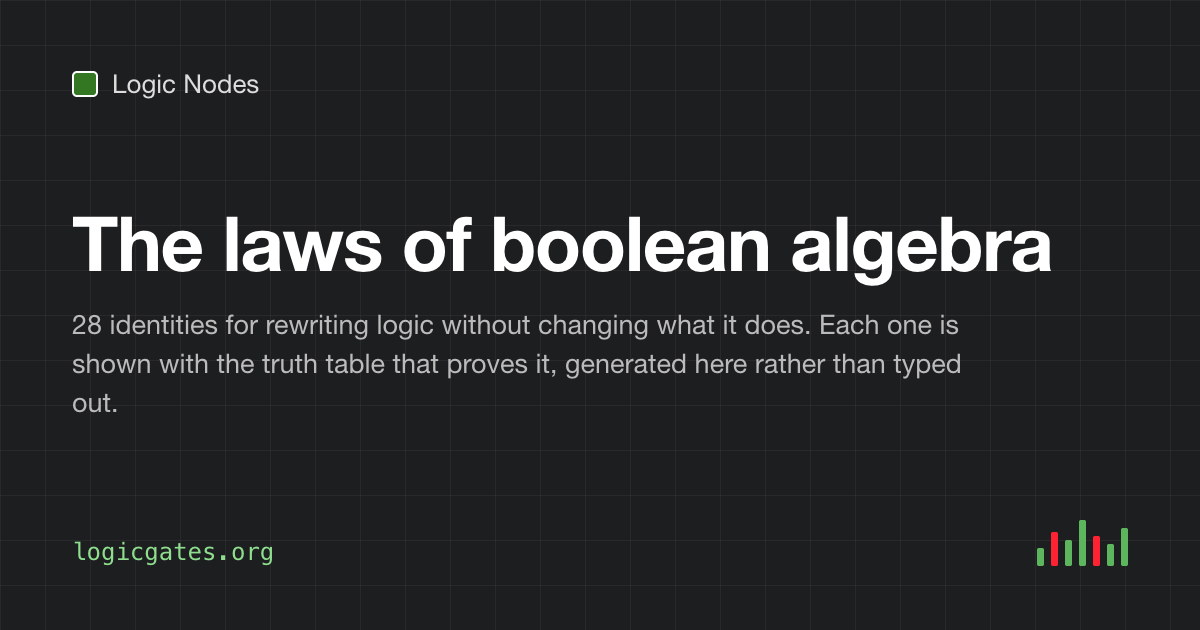
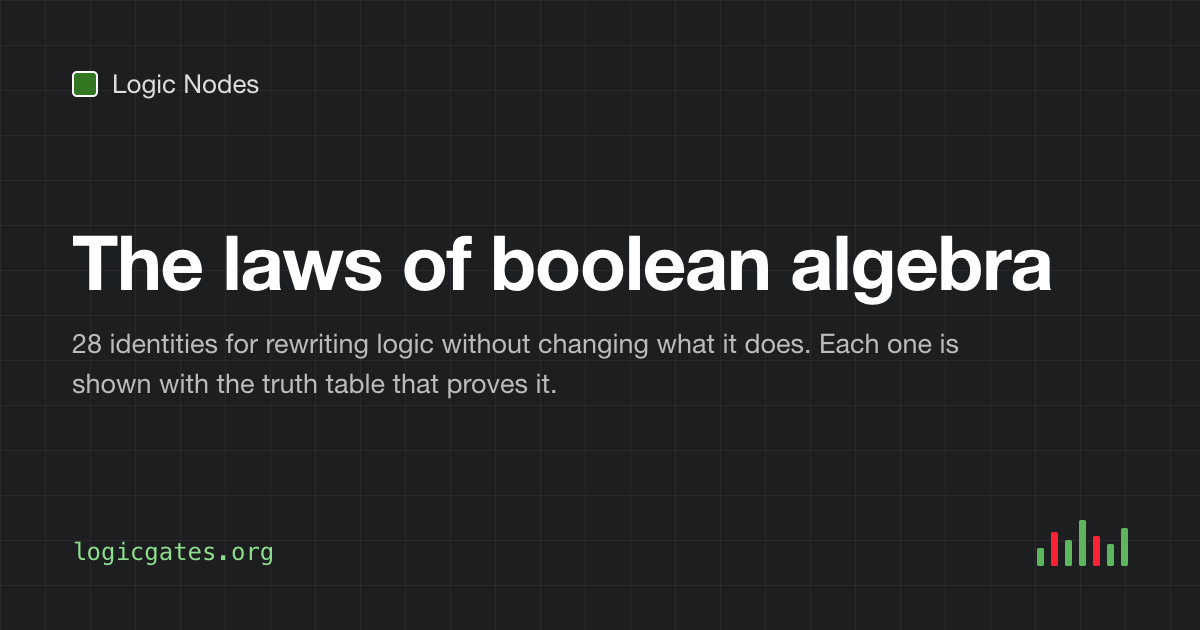
copy: stop the pages talking about how they were built
Several passages advertised the implementation rather than telling the
reader anything: a property-based test suite that fails the build, tables
"generated by the same engine", waveforms that "cannot disagree" with their
tables, content that "can't quietly go stale". That is reassurance aimed at
whoever wrote it, and it reads as protesting too much.

Fifteen passages cut or rewritten to describe what the reader gets. Claims
that describe the product are kept: the editor really does generate a truth
table live, the equivalence checker really does compare every row, and the
worksheet key really is gated by a code tied to the sheet.

Claude-Session: https://claude.ai/code/session_01EqRyye9pEa7xRu1xhYb2tK

Changed region(s): [[0.0617, 0.3317, 0.8942, 0.6635]]

diff --git a/src/routes/practice/+page.svelte b/src/routes/practice/+page.svelte
@@ -81,7 +81,7 @@
 	const faqs = [
 		{
 			q: 'Where do the questions come from?',
-			a: 'They are generated, not drawn from a fixed list, so you can keep going indefinitely. Each one is built and marked by the same expression engine that powers the truth table generator and the Karnaugh map solver, which is also how the distractors are checked to be genuinely wrong.'
+			a: 'They are built fresh rather than drawn from a fixed list, so you can keep going indefinitely. The wrong answers are real alternatives rather than filler, so you cannot get there by eliminating the obviously silly ones.'
 		},
 		{
 			q: 'What is covered?',
@@ -273,10 +273,7 @@
 
 	<section>
 		<h2>What comes up</h2>
-		<p class="section-intro">
-			Five kinds of question, mixed at random. Every one is generated and then marked by the same engine behind the rest
-			of the site, so the answers are worked out rather than looked up.
-		</p>
+		<p class="section-intro">Five kinds of question, mixed at random.</p>
 		<div class="table-wrap">
 			<table class="data-table">
 				<thead>

diff --git a/src/routes/+page.svelte b/src/routes/+page.svelte
@@ -33,12 +33,12 @@
 		{
 			href: '/boolean-algebra-laws',
 			name: 'Boolean algebra laws',
-			blurb: 'Every identity, each proved with a generated truth table.'
+			blurb: 'Every identity, shown with the truth table that proves it.'
 		},
 		{
 			href: '/practice',
 			name: 'Practice and worksheets',
-			blurb: 'Endless generated questions, and printable sheets with a key.'
+			blurb: 'Questions that never run out, and printable sheets with a key.'
 		}
 	];
 
@@ -658,8 +658,8 @@
 	<section>
 		<h2>And the reference to go with them</h2>
 		<p class="section-intro">
-			Every table, identity and waveform on these pages is generated by the same engine that powers the tools, and
-			checked against it, so none of it can quietly go stale.
+			The background for the tools: how each gate behaves, how flip-flops hold a value, and how the standard building
+			blocks are put together.
 		</p>
 		<div class="link-grid">
 			{#each guides as guide}

diff --git a/src/routes/shift-registers/+page.svelte b/src/routes/shift-registers/+page.svelte
@@ -74,7 +74,7 @@
 	const page = {
 		title: 'Shift Registers: SIPO, PISO, Ring and Johnson Counters',
 		description:
-			'How shift registers work, the four serial and parallel arrangements, and the ring and Johnson counters built from them, with generated timing diagrams.',
+			'How shift registers work, the four serial and parallel arrangements, and the ring and Johnson counters built from them, with timing diagrams.',
 		url: `${SITE}/shift-registers`,
 		image: `${SITE}/og/shift-registers.png`,
 		imageAlt: 'Logic Nodes: shift registers'

diff --git a/src/routes/counters/+page.svelte b/src/routes/counters/+page.svelte
@@ -67,7 +67,7 @@
 	const page = {
 		title: 'Counters in Digital Logic: Ripple, Synchronous and Decade',
 		description:
-			'How binary counters work, from toggling flip-flops to ripple, synchronous, decade and up/down designs, with generated count tables and timing diagrams.',
+			'How binary counters work, from toggling flip-flops to ripple, synchronous, decade and up/down designs, with count tables and timing diagrams.',
 		url: `${SITE}/counters`,
 		image: `${SITE}/og/counters.png`,
 		imageAlt: 'Logic Nodes: counters'

diff --git a/src/routes/tools/+page.svelte b/src/routes/tools/+page.svelte
@@ -168,10 +168,6 @@
 			<span class="mono">a∧b</span>, <span class="mono">ab</span> — and the simplification is Quine-McCluskey, the same algorithm
 			whether you see it as algebra or as groups on a map.
 		</p>
-		<p class="reducer">
-			It is covered by a property-based test suite: thousands of generated expressions are simplified and then
-			re-checked against their original truth table, so a wrong answer fails the build.
-		</p>
 		<p>
 			<a class="cta" href="/simulator">Open the simulator</a>
 		</p>

diff --git a/src/routes/logic-gates/[gate]/+page.svelte b/src/routes/logic-gates/[gate]/+page.svelte
@@ -139,8 +139,8 @@
 	<section>
 		<h2>Building it from other gates</h2>
 		<p class="section-intro">
-			Each of these is equivalent to the {gate.name} gate, verified against the full truth table. Paste any of them into
-			the simulator with <kbd>ctrl</kbd>+<kbd>E</kbd> to see the circuit.
+			Each of these is equivalent to the {gate.name} gate. Paste any of them into the simulator with
+			<kbd>ctrl</kbd>+<kbd>E</kbd> to see the circuit.
 		</p>
 		<table class="data-table equivalences">
 			<thead>

diff --git a/src/routes/worksheet/+page.svelte b/src/routes/worksheet/+page.svelte
@@ -288,8 +288,8 @@
 	<section class="no-print">
 		<h2>How it works without an account</h2>
 		<p class="section-intro">
-			There is no database behind this, and no sign-up. The questions are built from the sheet number by the same engine
-			that marks them, so the number is the worksheet.
+			There is no database behind this, and no sign-up. The questions come from the sheet number in the address, so the
+			number is the worksheet.
 		</p>
 		<ul class="how">
 			<li>

diff --git a/src/routes/flip-flops/[type]/+page.svelte b/src/routes/flip-flops/[type]/+page.svelte
@@ -252,8 +252,7 @@
 			</div>
 			<div class="timing-scroll print-only" aria-hidden="true">{@html timingPrintSvg}</div>
 			<figcaption>
-				Q is computed from <span class="mono">{ff.equationText}</span>, the same equation as the table above, so the
-				waveform and the table cannot disagree.
+				Q follows <span class="mono">{ff.equationText}</span>, the same equation as the table above.
 			</figcaption>
 		</figure>
 	</section>

diff --git a/src/routes/boolean-algebra-laws/+page.svelte b/src/routes/boolean-algebra-laws/+page.svelte
@@ -124,7 +124,7 @@
 		<h1>The laws of boolean algebra</h1>
 		<p class="lede">
 			{laws.length} identities for rewriting logic without changing what it does. Each one is shown with the truth table
-			that proves it, generated here rather than typed out.
+			that proves it.
 		</p>
 		<p class="reducer">
 			Want to check your own? The <a href="/boolean-algebra-calculator">calculator</a> compares any two expressions row by

diff --git a/src/routes/truth-table-generator/+page.svelte b/src/routes/truth-table-generator/+page.svelte
@@ -290,8 +290,7 @@
 	<section>
 		<h2>Truth tables of the six basic gates</h2>
 		<p class="section-intro">
-			Every digital circuit is built from these. Each table below is generated by the same engine as the one above,
-			counting up in binary.
+			Every digital circuit is built from these. The rows count up in binary, the same as the table above.
 		</p>
 		<div class="gate-grid">
 			{#each gateRef as gate}

diff --git a/src/routes/nand-nor-converter/+page.svelte b/src/routes/nand-nor-converter/+page.svelte
@@ -295,7 +295,7 @@
 		<p class="reducer">
 			The OR rule is <a href="/boolean-algebra-laws">De Morgan's law</a> written as gates: inverting both inputs of a NAND
 			turns it into an OR. The AND rule is simpler still, just double negation, since a NAND followed by an inverter is an
-			AND. Every identity on this page is checked against a full truth table in the test suite.
+			AND.
 		</p>
 	</section>
 

diff --git a/src/routes/common-circuits/+page.svelte b/src/routes/common-circuits/+page.svelte
@@ -125,7 +125,7 @@
 		<h1>Common logic circuits</h1>
 		<p class="lede">
 			The handful of combinational blocks that everything else is assembled from. Each one is given as boolean
-			expressions, with the complete truth table generated from them.
+			expressions, with its complete truth table.
 		</p>
 		<ol class="toc">
 			{#each built as circuit}
